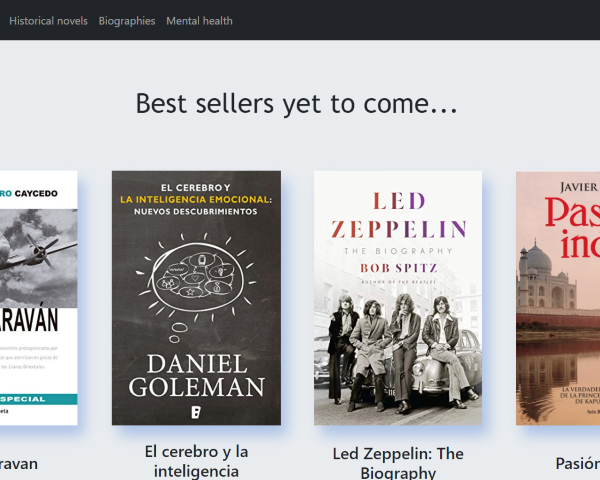
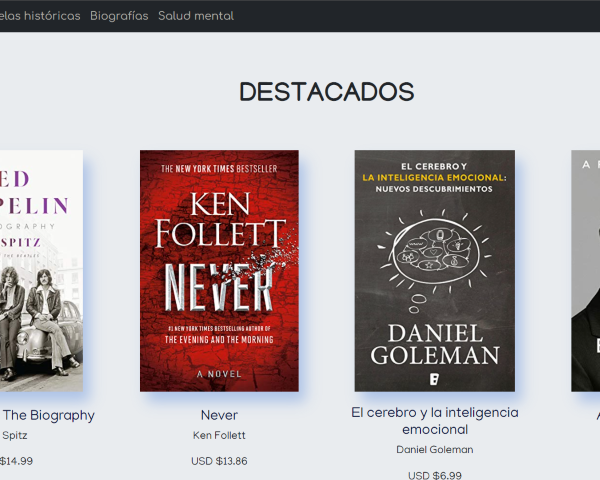
Sexto commit: Actualizar proyecto Book Square

diff --git a/index.html b/index.html
@@ -95,14 +95,14 @@
             <div class="projectsContainer__itemListContainer">
                 <article class="itemListContainer__itemContainer">
                     <div class="itemContainer__imgContent" data-aos="fade-right" data-aos-duration="1000">
-                        <a class="imgContent__projectLink" href="https://github.com/maricelj62/Book-Square" target="blank">
+                        <a class="imgContent__projectLink" href="https://booksquare.netlify.app/" target="blank">
                             <img class="projectLink__image img-fluid" src="./img/bookSquare.png" alt="Imagen de portada de un e-commerce de libros">
                         </a>
                     </div>
                     <div class="itemContainer__textContent" data-aos="fade-left" data-aos-duration="1000">
                         <h3 class="textContent__projectTitle">Book Square</h3>
-                        <p class="textContent__parr">E-commerce de libros. Skills: React, HTML, CSS.</p>
-                        <p class="textContent__parr">En proceso</p>
+                        <p class="textContent__parr">E-commerce de libros. Skills: React, Firebase, HTML, CSS.</p>
+                        <p class="textContent__parr">Diciembre 2021</p>
                         <hr class="textContent__line">
                     </div>                  
                 </article>
